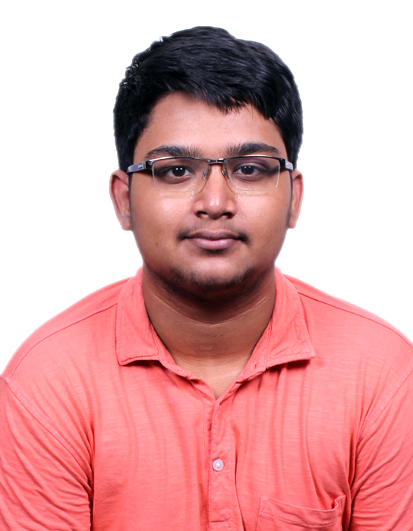
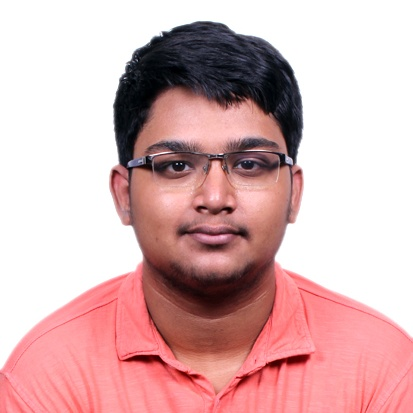
Profile Picture update

diff --git a/about.html b/about.html
@@ -40,7 +40,7 @@
 									<p>I am currently pursuing my bachelors in Information Technology from SSN College of Engineering, Chennai. I am interested in the fields of Machine Learning, Natural Language Processing, Computer Vision and Speech Signal Processing. 
 										I would like to work in the aforementioned fields and develop real world solutions.</p>
 								<p>I am also an avid sports fan and my hobbies include playing cricket and reading books.</p>
-								<div class="image main"><img src="images/Profile.JPG" style="width: 60%; height: 60%; display: block; margin-left: auto; margin-right: auto;" alt="" /></div>
+								<div class="image main"><img src="images/MBadriNarayanan.jpg" style="width: 40%; height: 40%; display: block; margin-left: auto; margin-right: auto;" alt="" /></div>
 							</section>
 
 					</div>
